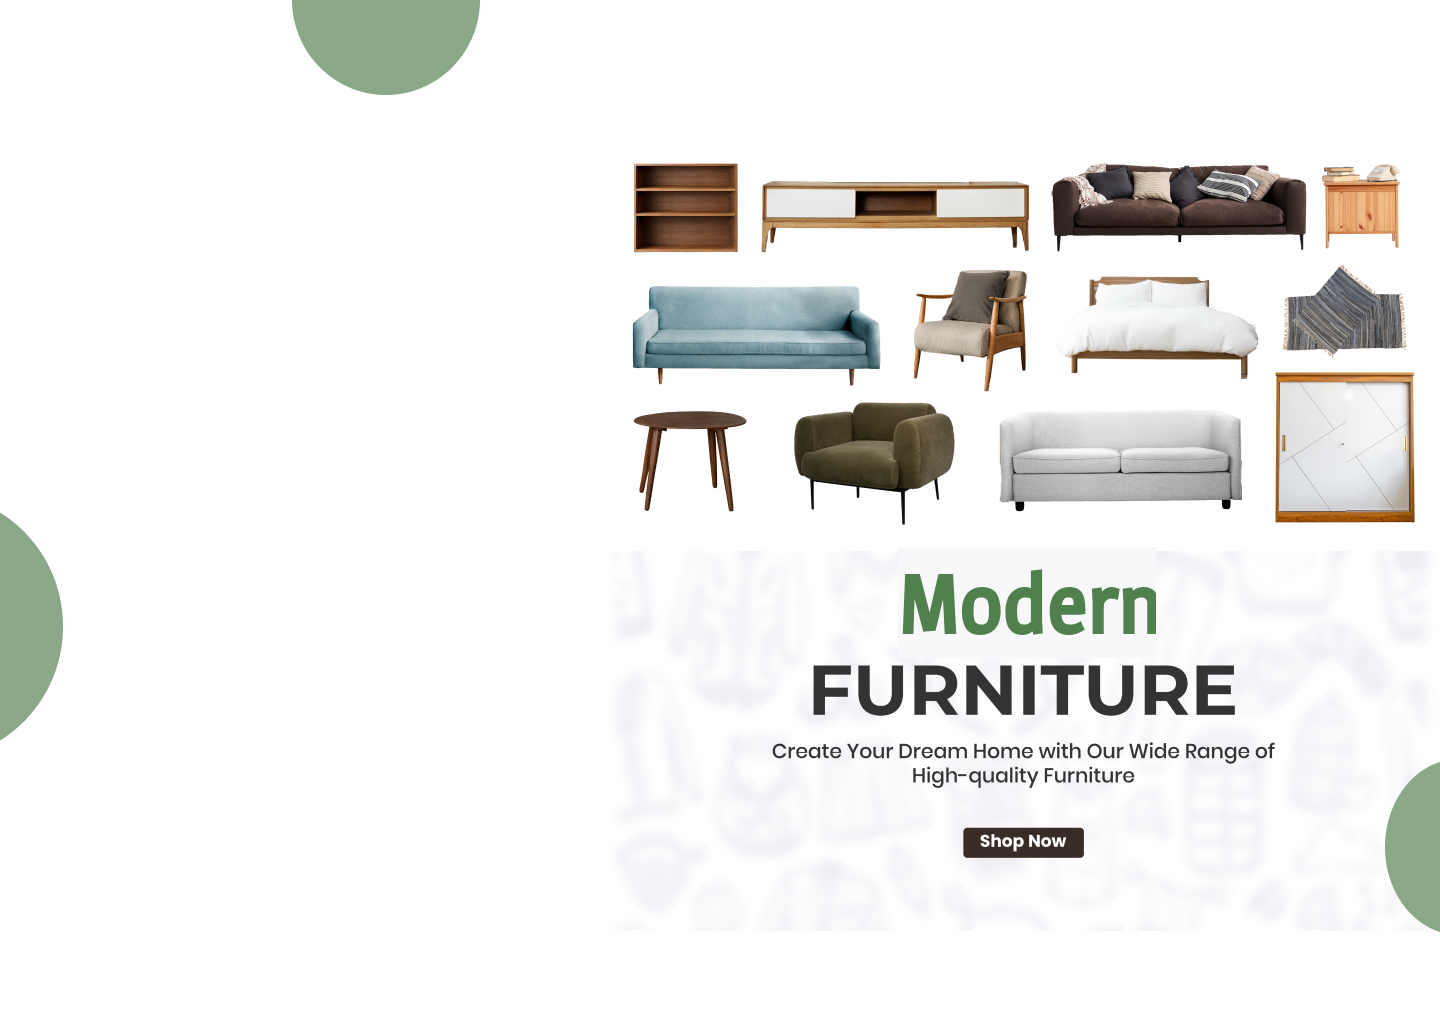
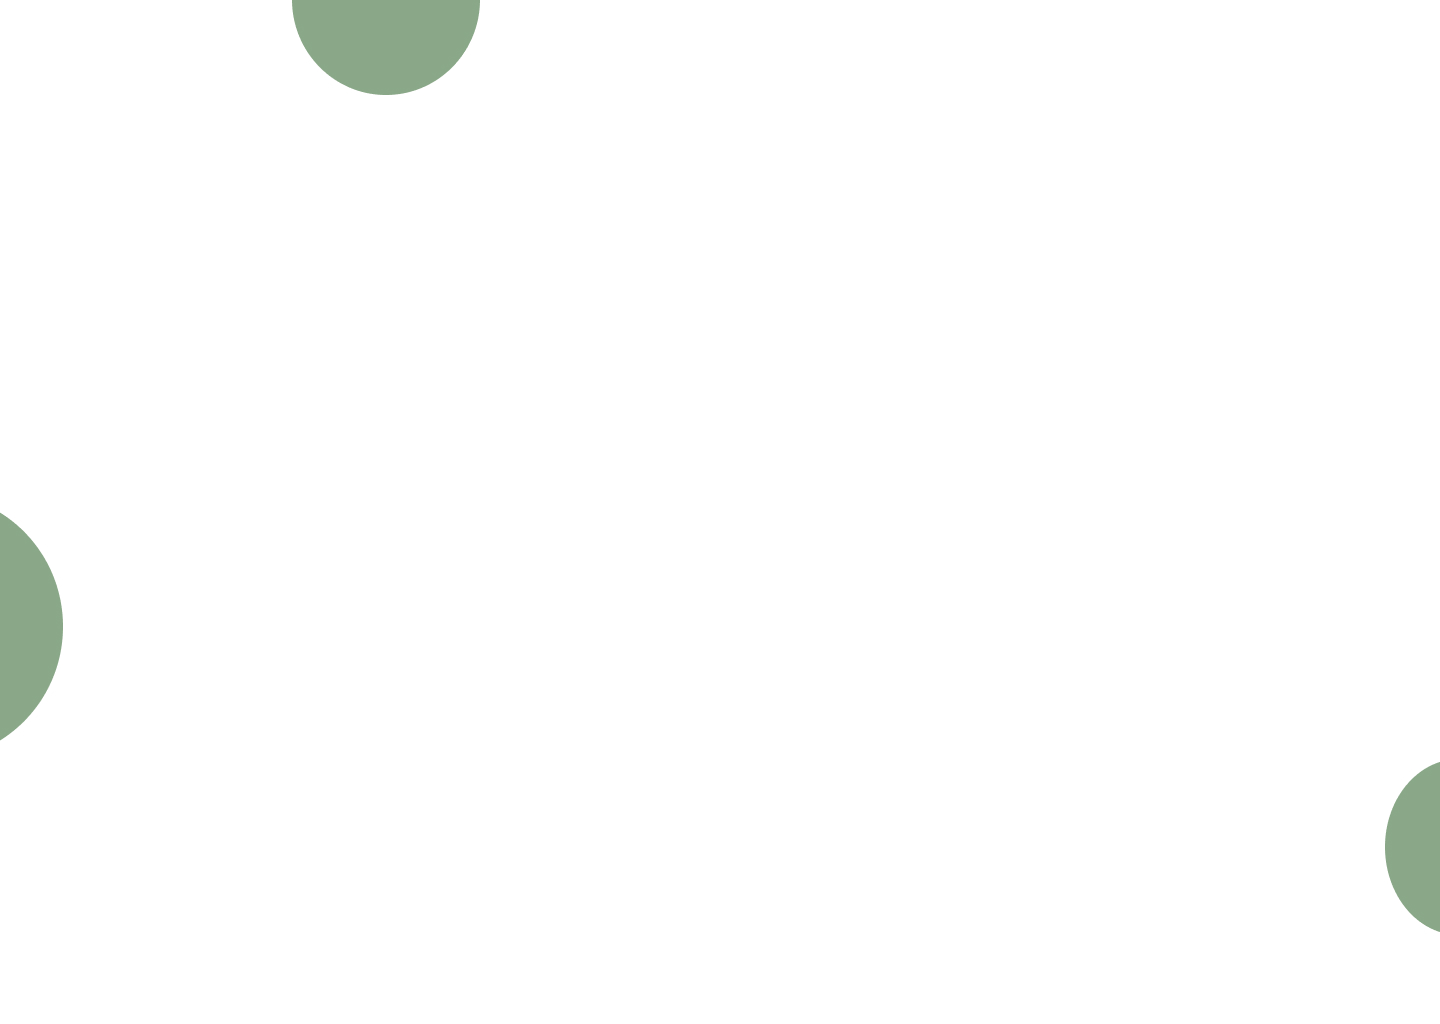
services page completed

Changed region(s): [[0.4375, 0.1562, 1.0, 0.5312], [0.5312, 0.5625, 0.875, 0.8438]]

diff --git a/src/components/Services.jsx b/src/components/Services.jsx
@@ -1,0 +1,50 @@
+import React from "react";
+import servicesBg from "../assets/services-bg.jpg";
+import servicesInfo from "../assets/services-info.jpg";
+
+const Services = () => {
+  return (
+    <div
+      className="w-[100vw] h-[100vh] flex justify-center"
+      style={{ justifyContent: "center" }}
+    >
+      <img
+        src={servicesBg}
+        alt=" home-page-img"
+        className="object-cover bg-cover h-full w-full"
+      />
+      <div
+        className=" absolute w-full h-full grid items-center  sm:grid-cols-10"
+        style={{ justifyItems: "center" }}
+      >
+        <div className="sm:col-span-4" style={{ paddingLeft: "2rem" }}>
+          <h1 className="font-bold sm:text-5xl text-2xl p-5 self-start">
+            Services
+          </h1>
+          <p className="sm:text-3xl text-sm p-4 sm:-2 text-black">
+            At the heart of our business lies a commitment to deliver
+            excellence. We believe that the home is a sacred space, and each
+            piece of furniture and every interior accessory should reflect the
+            essence of the homeowner's personality and style. With this belief
+            in mind, we strive to curate a diverse and exquisite collection that
+            caters to various tastes, preferences, and lifestyles.
+          </p>
+          <button class="relative m-[5px] inline-flex items-center justify-center p-0.5 mb-2 me-2 overflow-hidden text-sm font-medium text-gray-900 rounded-lg group bg-gradient-to-br from-teal-300 to-lime-300 group-hover:from-teal-300 group-hover:to-lime-300 dark:text-white dark:hover:text-gray-900 focus:ring-4 focus:outline-none focus:ring-lime-200 dark:focus:ring-lime-800" style={{marginLeft:"15px"}}>
+            <span class="relative px-5 py-2.5 transition-all ease-in duration-75 bg-white dark:bg-gray-700 rounded-md group-hover:bg-opacity-0">
+              shop now
+            </span>
+          </button>
+        </div>
+        <div className=" h-full sm:w-[60vw] sm:px-5 sm:col-span-6">
+          <img
+            src={servicesInfo}
+            alt="aboutChairImg"
+            className="w-full h-full"
+          />
+        </div>
+      </div>
+    </div>
+  );
+};
+
+export default Services;

diff --git a/src/components/About.jsx b/src/components/About.jsx
@@ -3,21 +3,27 @@ import aboutImg from "../assets/about-bg.jpg";
 import aboutChair from "../assets/about-chair.png";
 const About = () => {
   return (
-    <div className="w-[100vw] h-[100vh] flex justify-center">
+    <div className="w-[100vw] h-[120vh]  flex justify-center" >
       <img
         src={aboutImg}
         alt=" home-page-img"
         className="object-cover bg-cover h-full w-full"
+        
       />
-      <div className=" absolute w-full h-full grid items-center  sm:grid-cols-10">
+      <div className=" absolute w-full h-full grid items-center gap-5 sm:grid-cols-10">
         <div className="sm:col-span-6" style={{paddingLeft: "2rem"}}>
           <h1 className="font-bold sm:text-5xl text-2xl p-5 self-start">About</h1>
           <p className="sm:text-3xl text-xl p-4 sm:-2 text-black">
           At the heart of our business lies a commitment to deliver excellence. We believe that the home is a sacred space, and each piece of furniture and every interior accessory should reflect the essence of the homeowner's personality and style. With this belief in mind, we strive to curate a diverse and exquisite collection that caters to various tastes, preferences, and lifestyles.
           </p>
+          <button class="relative m-[5px] inline-flex items-center justify-center p-0.5 mb-2 me-2 overflow-hidden text-sm font-medium text-gray-900 rounded-lg group bg-gradient-to-br from-teal-300 to-lime-300 group-hover:from-teal-300 group-hover:to-lime-300 dark:text-white dark:hover:text-gray-900 focus:ring-4 focus:outline-none focus:ring-lime-200 dark:focus:ring-lime-800" style={{marginLeft:"15px"}}>
+            <span class="relative px-5 py-2.5 transition-all ease-in duration-75 bg-white dark:bg-gray-700 rounded-md group-hover:bg-opacity-0">
+              more info
+            </span>
+          </button>
         </div>
-        <div className=" min-h-[200px] px-3 py-4 sm:w-[28rem] sm:px-5 sm:col-span-4">
-          <img src={aboutChair} alt="aboutChairImg"  className="w-full"/>  
+        <div className=" min-h-[200px] py-4 sm:w-[28rem] sm:px-5 sm:col-span-4">
+          <img src={aboutChair} alt="aboutChairImg"  className="sm:w-full"/>  
         </div>
       </div>
     </div>

diff --git a/src/App.jsx b/src/App.jsx
@@ -2,6 +2,7 @@ import "./App.css";
 import About from "./components/About";
 import Home from "./components/Home";
 import Navbar from "./components/Navbar";
+import Services from "./components/Services";
 
 function App() {
   return (
@@ -9,6 +10,7 @@ function App() {
       <Navbar />
       <Home />
       <About />
+      <Services/>
     </>
   );
 }

diff --git a/src/App.css b/src/App.css
@@ -1,0 +1,6 @@
+/* body{
+    overflow-x: hidden;
+} */
+.m-left{
+    margin-left: 10px;
+}
